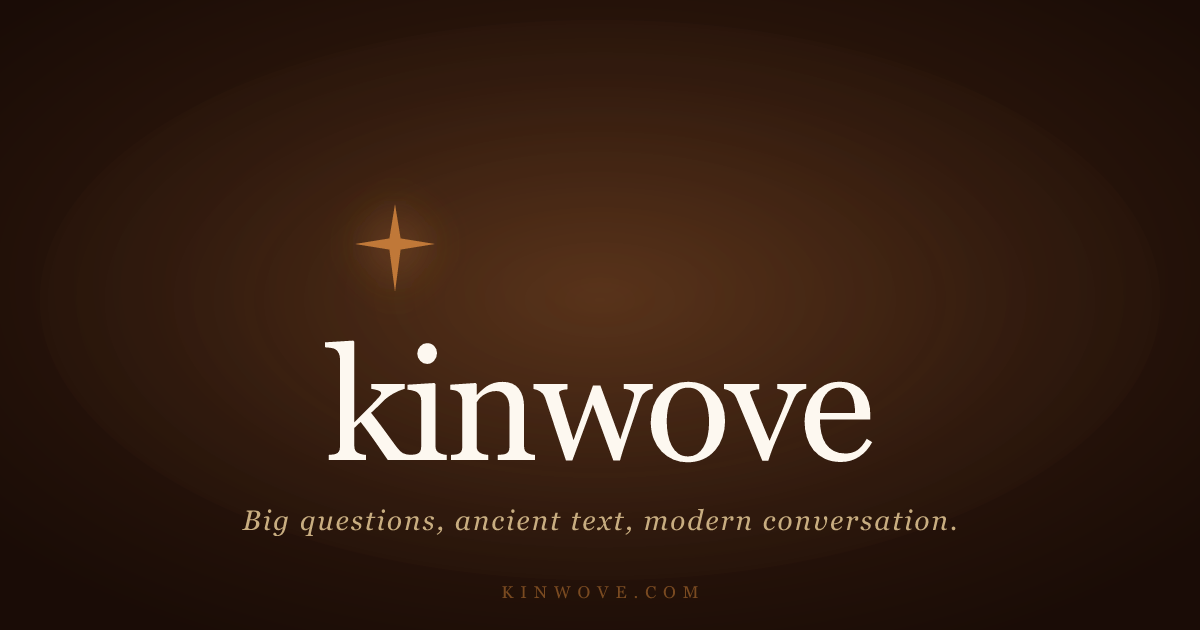
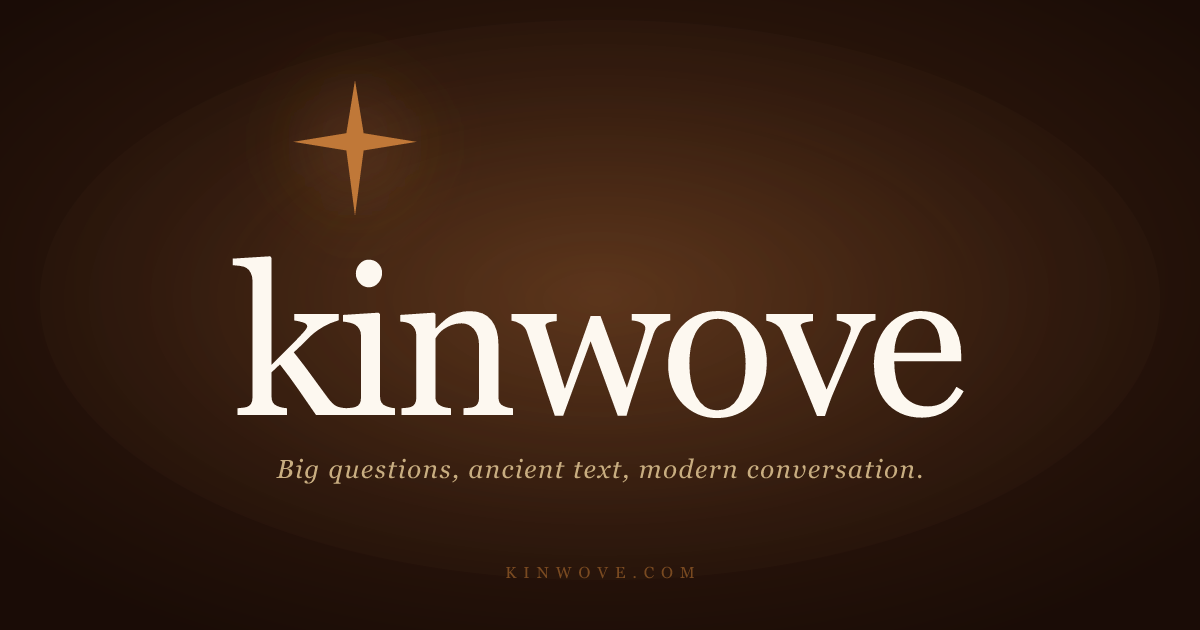
OG image bigger; post deep links; repost restored for own posts
- og-image.png: 210px wordmark fills the card, 148px star above the i
- ?post=[id] URL param: app navigates to community + opens that post's comments
- Community.jsx ShareSheet now passes url=https://kinwove.com/?post=[id]
- Repost to feed: removed own-post restriction (can repost your own content like FB)

diff --git a/src/App.jsx b/src/App.jsx
@@ -1657,6 +1657,7 @@ export default function App() {
   const [installTrigger, setInstallTrigger] = useState(false);
   const [userGroup, setUserGroup] = useState(null);   // { group, role }
   const [shareId] = useState(() => new URLSearchParams(window.location.search).get('s'));
+  const [deepLinkPostId] = useState(() => new URLSearchParams(window.location.search).get('post'));
   const [studySessionId] = useState(() => new URLSearchParams(window.location.search).get('gs'));
   const [initialChurchId] = useState(() => new URLSearchParams(window.location.search).get('church'));
   const [referralRef] = useState(() => new URLSearchParams(window.location.search).get('ref'));
@@ -1687,7 +1688,7 @@ export default function App() {
   const [pendingChurchJoin, setPendingChurchJoin] = useState(null);
   const [activeCareConv, setActiveCareConv] = useState(null);
   const [activeDmConv, setActiveDmConv] = useState(null); // { id, otherProfile }
-  const [openCommentPostId, setOpenCommentPostId] = useState(null);
+  const [openCommentPostId, setOpenCommentPostId] = useState(() => deepLinkPostId ?? null);
   const [shareCopied, setShareCopied] = useState(false);
   const [historyOpen, setHistoryOpen] = useState(false);
   const [currentConvId, setCurrentConvId] = useState(null);
@@ -1916,7 +1917,8 @@ export default function App() {
     supabase.auth.getSession().then(({ data }) => {
       _setSession(data.session ?? null);
       if (data.session) {
-        if (initialAnonChurchId) { setViewingChurchId(initialAnonChurchId); setStage('church-entry'); loadProfile(data.session.user.id); }
+        if (deepLinkPostId) { setStage('community'); loadProfile(data.session.user.id); }
+        else if (initialAnonChurchId) { setViewingChurchId(initialAnonChurchId); setStage('church-entry'); loadProfile(data.session.user.id); }
         else if (initialChurchId) { setViewingChurchId(initialChurchId); setStage('church'); loadProfile(data.session.user.id); }
         else {
           const local = localStorage.getItem('kw:stage');

diff --git a/src/Community.jsx b/src/Community.jsx
@@ -805,11 +805,11 @@ function PostCard({ post, index = 0, session, currentUserId, userProfile, userGr
       {shareOpen && (
         <ShareSheet
           body={post.body}
+          url={`https://www.kinwove.com/?post=${post.id}`}
           previewBody={stripFirstUrl(post.body ?? '').trim() || undefined}
           title="Share this post"
           customActions={[
             session
-              && post.author_id !== session.user.id
               && post.visibility === 'public'
               && post.scope === 'me'
               && !post.body_data?.repost_of
@@ -1417,7 +1417,7 @@ useEffect(() => {
     // Privacy guards — don't repost private, church/group, or already-reposted posts
     if (post.visibility !== 'public') return;
     if (post.scope !== 'me') return;
-    if (post.body_data?.repost_of) return; // no repost-of-reposts
+    if (post.body_data?.repost_of) return; // no repost-of-reposts (can't repost a repost)
 
     const authorName = post.profiles?.display_name ?? 'Someone';
 
